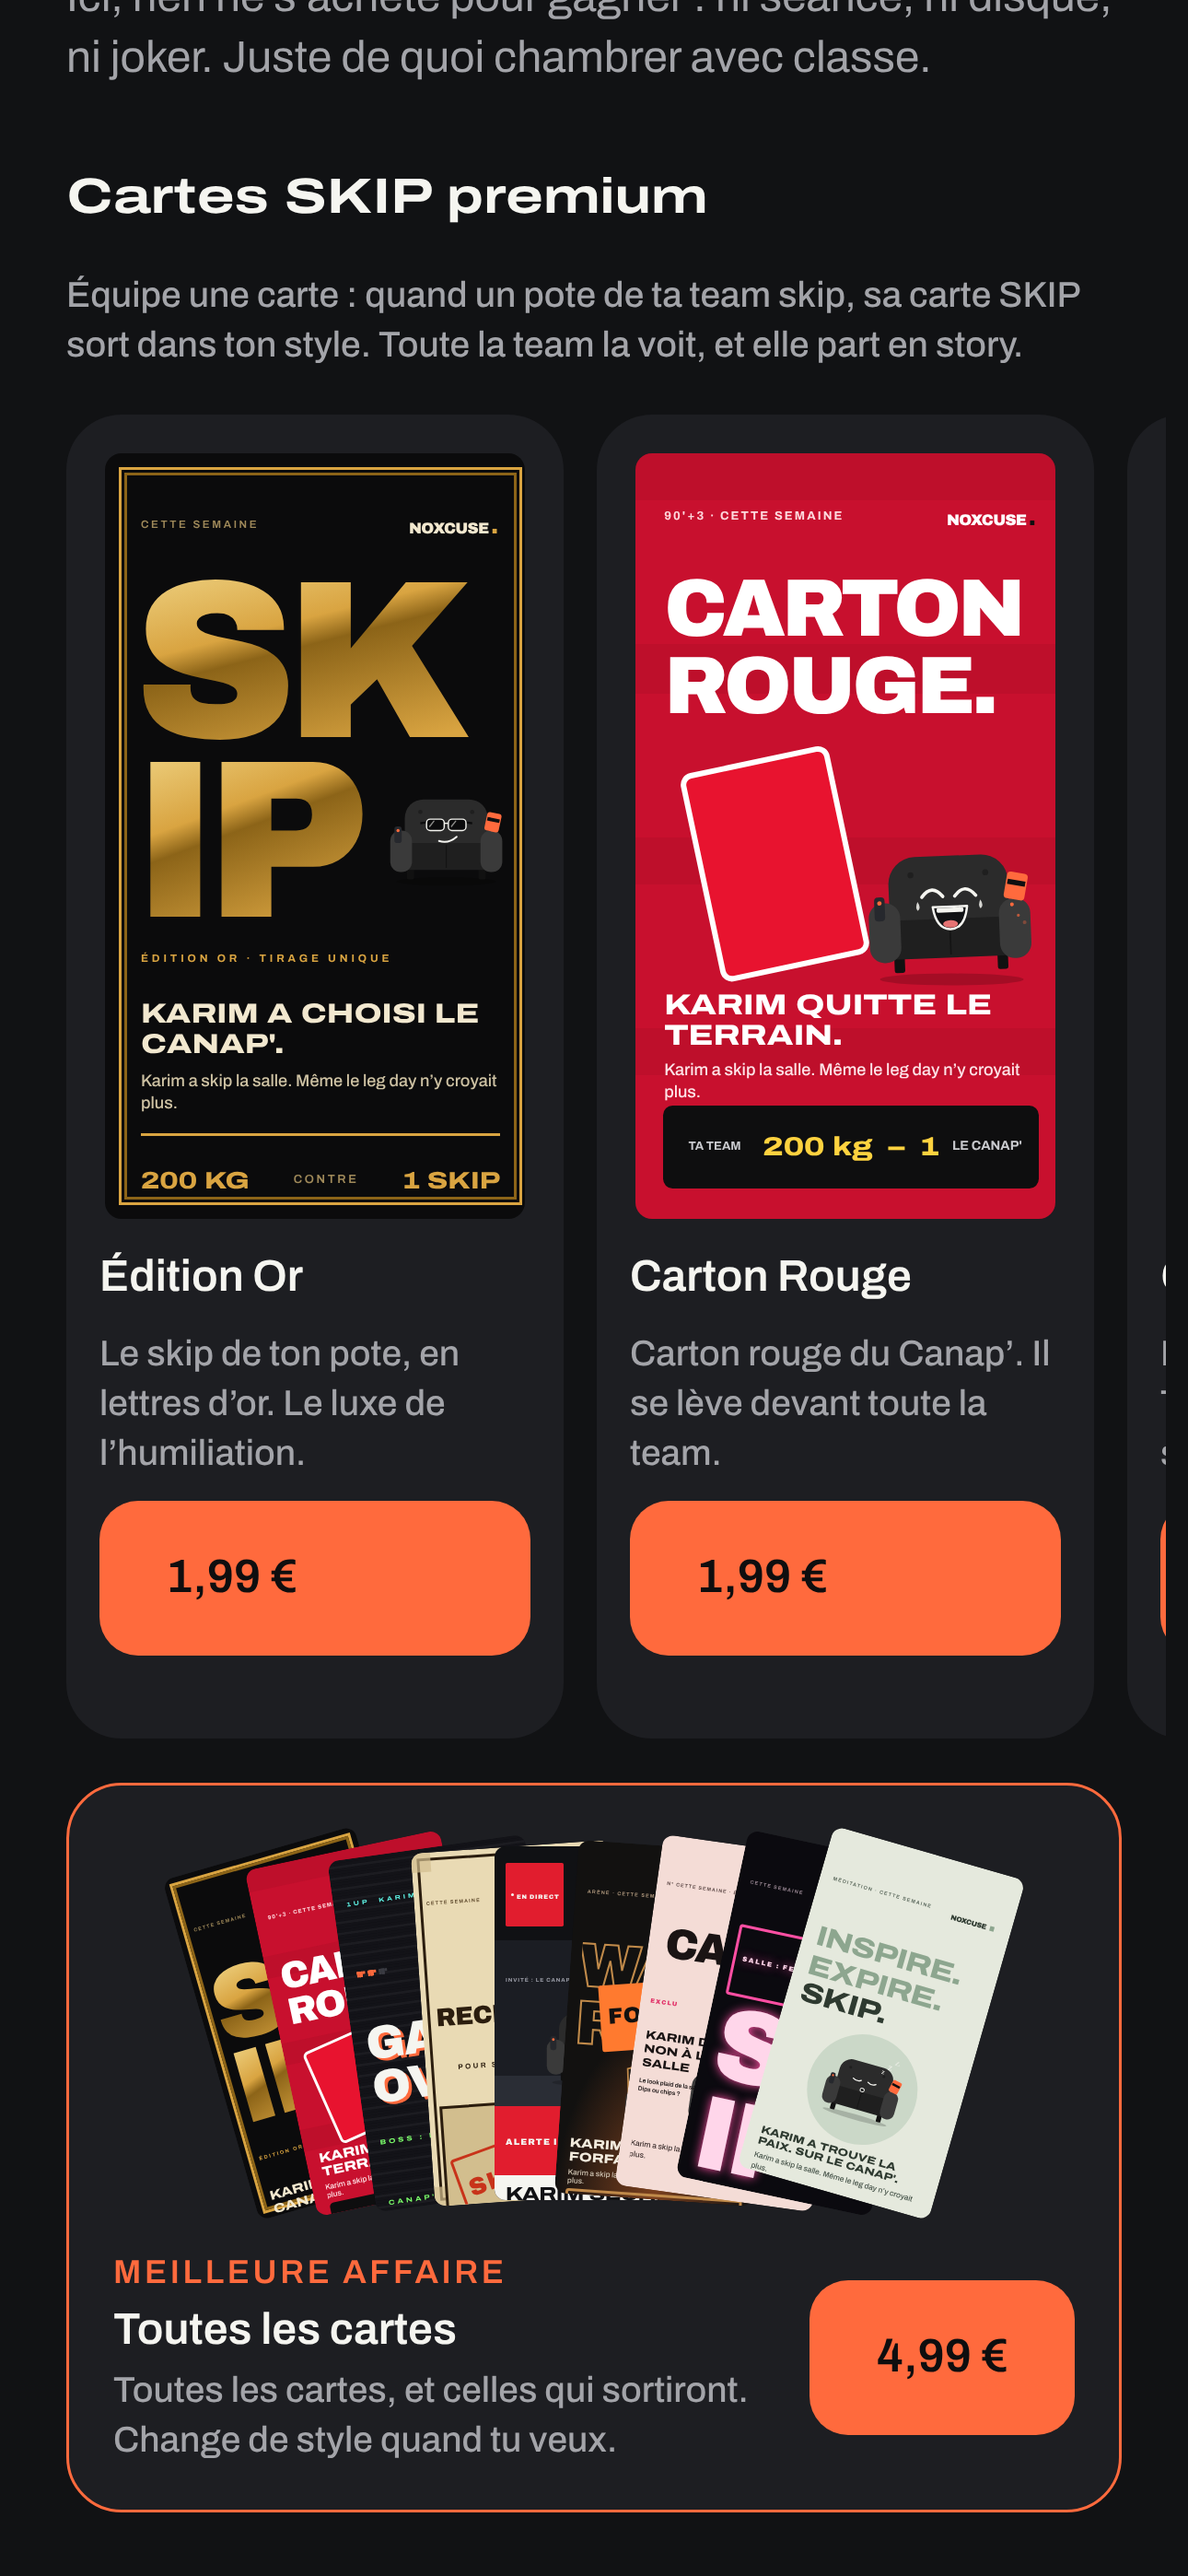
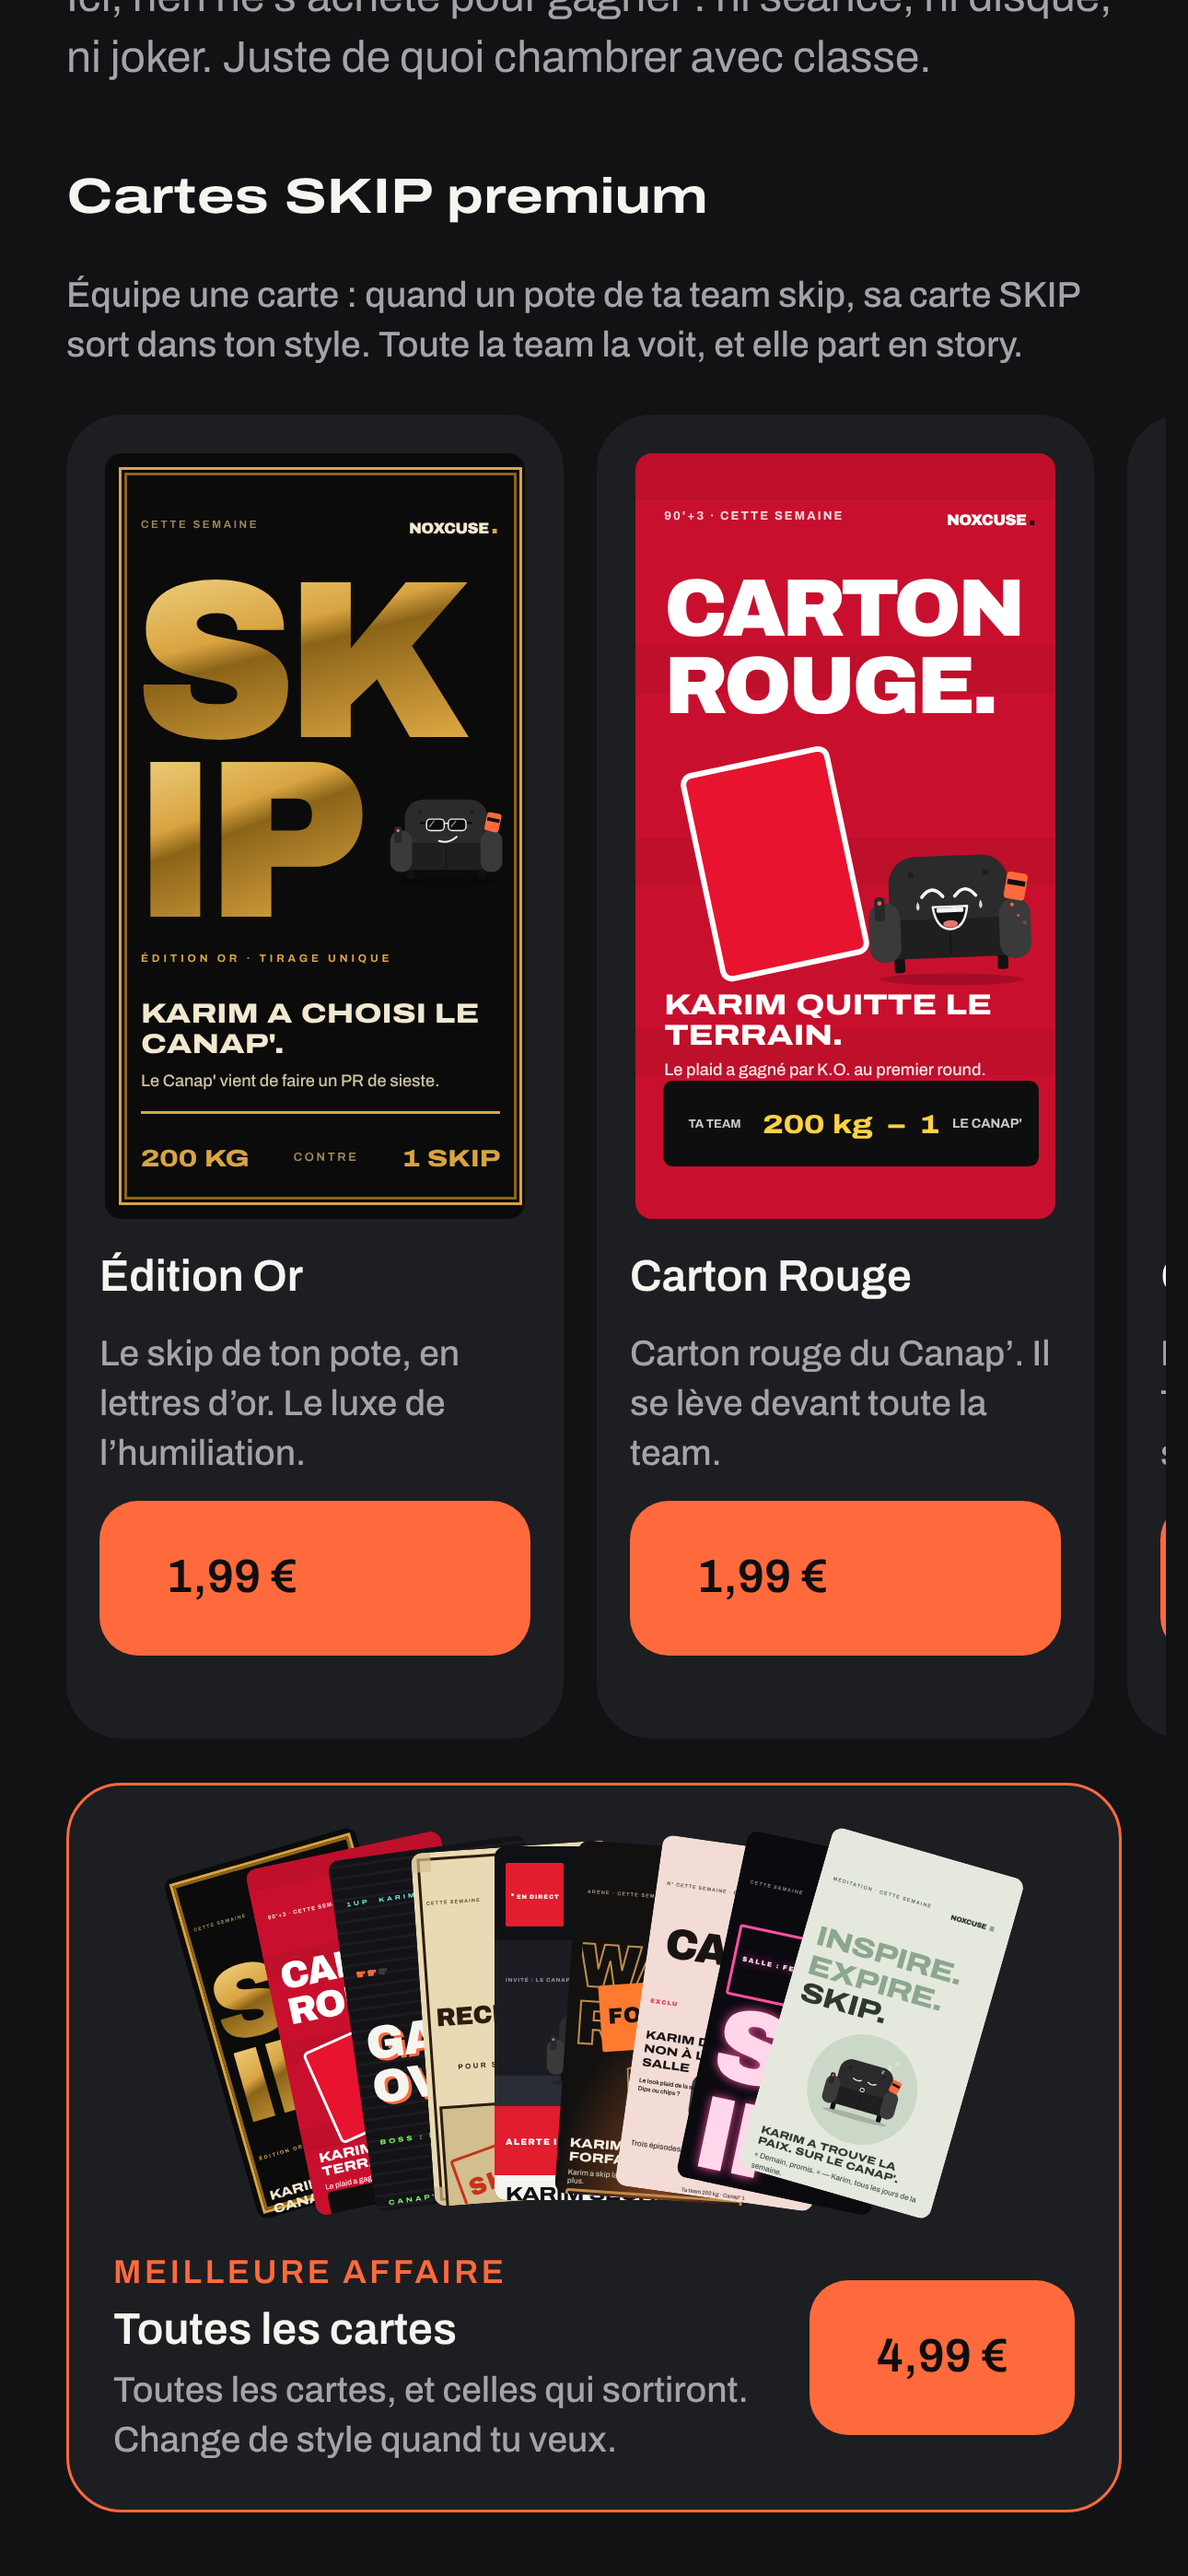
Shop previews: a different real SKIP line on each card
Claude-Session: https://claude.ai/code/session_01XQSCL7HTtEjkA8txYiEgZE

Changed region(s): [[0.5581, 0.4045, 0.8682, 0.4667], [0.124, 0.4045, 0.4341, 0.4667], [0.2791, 0.8401, 0.3101, 0.8712]]

diff --git a/src/components/ShopView.tsx b/src/components/ShopView.tsx
@@ -1,6 +1,7 @@
 import { ScrollView, StyleSheet, View } from 'react-native';
 import Animated, { FadeIn, FadeInDown, useReducedMotion } from 'react-native-reanimated';
 
+import { skipLineText } from '../../content/skip-lines';
 import { StyledPoster } from '@/components/posters/StyledPoster';
 import { TeamBar } from '@/components/TeamBar';
 import { Button } from '@/components/ui/Button';
@@ -225,9 +226,23 @@ export function ShopView({
   );
 }
 
+/** A different real line on each preview, so the shop shows the variety of the cards. */
+const SAMPLE_LINE: Record<PosterStyle, string> = {
+  classic: 'leg-day',
+  gold: 'canap-pr-sieste',
+  redcard: 'plaid',
+  gameover: 'telecommande',
+  wanted: 'place-chauffee',
+  news: 'reveil',
+  warrior: 'leg-day',
+  magazine: 'serie-netflix',
+  neon: 'chips-orange',
+  zen: 'demain-promis',
+};
+const sampleLine = (style: PosterStyle) => skipLineText(SAMPLE_LINE[style], 'Karim');
+
 const SAMPLE = {
   pseudo: 'Karim',
-  line: 'Karim a skip la salle. Même le leg day n’y croyait plus.',
   teamName: 'Ta team',
   teamKg: 200,
   skips: 1,
@@ -285,7 +300,12 @@ function PosterSection({
           return (
             <View key={item.productId} style={styles.posterCard}>
               <View style={[styles.posterFrame, worn && styles.posterWorn]}>
-                <StyledPoster style={item.style} width={MINI} {...SAMPLE} />
+                <StyledPoster
+                  style={item.style}
+                  width={MINI}
+                  {...SAMPLE}
+                  line={sampleLine(item.style)}
+                />
               </View>
               <Text variant="bodyStrong">{item.title}</Text>
               <Text variant="caption" color={colors.muted} style={styles.posterPitch}>
@@ -331,7 +351,12 @@ function PosterSection({
                     },
                   ]}
                 >
-                  <StyledPoster style={item.style} width={72} {...SAMPLE} />
+                  <StyledPoster
+                    style={item.style}
+                    width={72}
+                    {...SAMPLE}
+                    line={sampleLine(item.style)}
+                  />
                 </View>
               ) : null,
             )}
